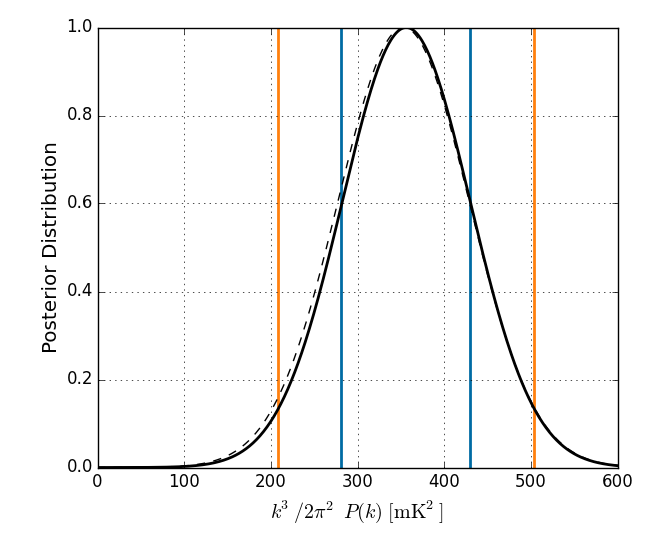
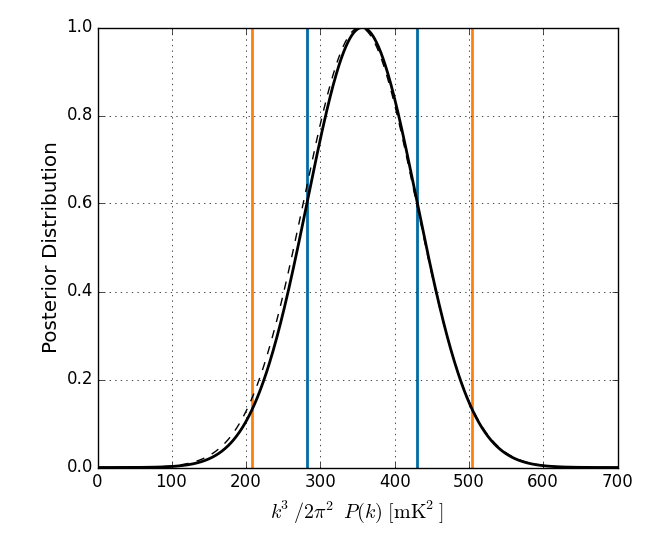
fix up some more figures
picimg and poseterior.
fix caption for pspec compariosn and picimg

Changed region(s): [[0.2462, 0.0309, 0.9538, 0.8964]]

diff --git a/psa64_pspec_ver2.tex b/psa64_pspec_ver2.tex
@@ -26,8 +26,8 @@
 \newcommand{\kmax}{k_{\rm max}}
 \newcommand{\Tcmb}{T_\gamma}
 \newcommand\abs[1]{\left|#1\right|}
-\newcommand{\mKlimit}{(19.7 mK)$^2$} % XXX put in final number
-\newcommand{\mKsqlimit}{390 mK$^2$} % XXX put in final number
+\newcommand{\mKlimit}{(22.4 mK)$^2$} % XXX put in final number
+\newcommand{\mKsqlimit}{503 mK$^2$} % XXX put in final number
 
 \newcount\colveccount
 \newcommand*\colvec[1]{
@@ -395,7 +395,7 @@ As illustrated in Figure \ref{fig:flowchart},
 our analysis pipeline begins by running a compression
 algorithm to reduce the volume of our raw data by a factor of 70.
 As described in Appendix A of P14, this is achieved by first performing statistical flagging to remove
-RFI at the 6$\sigma$ level, applying low-pass delay and fringe-rate filters that limit signal variation
+radio frequency interference (RFI) at the 6$\sigma$ level, applying low-pass delay and fringe-rate filters that limit signal variation
 to delay scales of $|\tau|\la1 \mu$s and fringe-rate scales of $f\la23$ mHz, and then 
 decimating to critical Nyquist sampling rates of 493 kHz along the frequency axis
 and 42.9 s along the time axis.  We remind the reader that while information is lost in this compression,
@@ -705,8 +705,7 @@ the calibrated Pictor A spectrum and the model spectrum from
 \centering
 \includegraphics[width=\columnwidth]{plots/picimg_cs.png}
 \caption{
-[XXX change flux scale]
-PAPER-64 image of a field including Pictor A and Fornax A, with black circles
+PAPER-64 image of a field including Pictor A and Fornax A, with white circles
 indicating catalog positions \citep{jacobs_et_al2011}. Image was synthesized with two hours
 of visibilities while Pictor A was in transit and 53 MHz of instantaneous
 bandwidth from 120 to 173 MHz.  Image quality is limited by the redundant
@@ -1037,14 +1036,20 @@ first mode outside of the horizon, 1.3\% for the next mode out, and less than
 
 \subsection{Binning in LST}\label{sec:lstbin}
 
-After the wideband delay filter, we remove a second layer of RFI and crosstalk
- which was overshadowed by the foreground signal. RFI are excised with 
- a filter which flags values $3\sigma$ above the median using a variance calculated in a localized time and frequency window.  Crosstalk, which is an overall complex offset to the visibility, due to small couplings between independent analog signal chains, is removed by subtracting a ten minute long average from each baseline. Normally, hour long averages are needed for foreground contained data
-to wash out the fringes from the said foregrounds to detect the static 
-bias that is crosstalk. With foregrounds removed, we do not have this
-complication since bright foregrounds are not dominating the average and are
-able to remove the offset by subtracting shorter sums.
-[XXX above statement is incorrect]
+After the wideband delay filter, we remove a second layer of RFI 
+ which was overshadowed by the foreground signal. RFI are excised with a filter
+which flags values $3\sigma$ above the median using a variance calculated in a
+localized time and frequency window.  
+
+%Crosstalk, which is an overall complex offset to the visibility, due to small
+%couplings between independent analog signal chains, is removed by subtracting a
+%ten minute long average from each baseline. Normally, hour long averages are
+%needed for foreground contained data to wash out the fringes from the said
+%foregrounds to detect the static bias that is crosstalk. With foregrounds
+%removed, we do not have this complication since bright foregrounds are not
+%dominating the average and are able to remove the offset by subtracting shorter
+%sums.
+%[XXX above statement is incorrect]
 
 The final step is to average the entire season into LST
 with 43-s bin widths matching the cadence of
@@ -2368,12 +2373,12 @@ unlikely to be chance.
 \begin{figure*}\centering
 \includegraphics[width=2\columnwidth]{plots/pspec_comparison.png}
 \caption{
-[XXX update with non-xtalk removed data]
 Diagnostic power spectra in the style of Figure \ref{fig:final_pspec}
 illustrating the impact of various analysis stages.
-Power spectra omitting the stages of fringe-rate filtering (magenta) and 
-OMNICAL calibration (cyan) show higher residuals than the final power spectrum
-(black) that includes both stages.
+Power spectra omitting the stages of fringe-rate filtering (blue) and 
+OMNICAL calibration (orange) show higher residuals than the final power
+spectrum (black) that includes both stages. Green shows the systematic
+dominated power spectrum without using the crosstalk fringe-rate filter.
 %The blue power spectrum has the full pipeline applied to it and is identical to
 %\ref{fig:final_pspec}. The red power spectrum does not have omnical applied to
 %it, and hence the error bars are bigger. Note that it does have the otimal

diff --git a/plots/plot_pk_k3pk.py b/plots/plot_pk_k3pk.py
@@ -24,12 +24,11 @@ opts,args = o.parse_args(sys.argv[1:])
 print args
 
 dspec='data/final_pspecs/v032/nocov_pspec.npz'
-#args=['data/final_pspecs/v032/pspec.npz']
-args=['data/final_pspecs/v040/pspec.npz']
+args=['data/final_pspecs/v050/pspec.npz']
 
 def noise_level():
     tsys = 500e3 #mK
-    inttime = 1886. #seconds
+    inttime = 1886. #seconds. XXX fix with new integration.
     nbls=51
     ndays = 120 #effectively this many days. days of operation = 135
     nseps = 3
@@ -572,7 +571,7 @@ def posterior(kpl, pk, err, pkfold=None, errfold=None, f0=.151, umag=16.):
 
     p.xlabel(r'$k^3/2\pi^2\ P(k)\ [{\rm mK}^2]$', fontsize='large')
     p.ylabel('Posterior Distribution', fontsize='large')
-    p.xlim(0,600)
+    p.xlim(0,700)
     p.grid(1)
     p.subplots_adjust(left=.15, top=.95, bottom=.15, right=.95)
     p.show()
